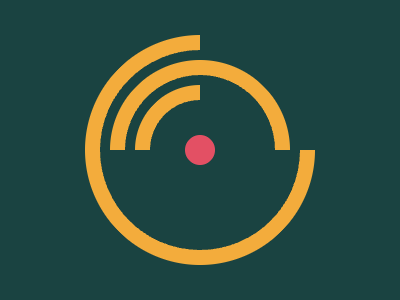
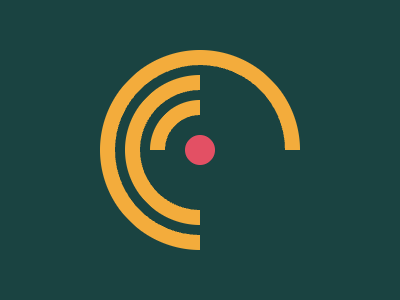
feat: add Preview component and normalize challenge rendering with standardized base HTML template

Changed region(s): [[0.21, 0.12, 0.81, 0.9]]

diff --git a/seed_images.js b/seed_images.js
@@ -7,18 +7,32 @@ const puppeteer = require('puppeteer');
   await p.setViewport({ width: 400, height: 300, deviceScaleFactor: 1 });
 
   const writeChallenge = async (file, html) => {
-    await p.setContent(html);
+    const fullHtml = `
+      <!DOCTYPE html>
+      <html>
+        <head>
+          <style>
+            * { margin: 0; padding: 0; box-sizing: border-box; }
+            html, body { width: 400px; height: 300px; overflow: hidden; background: #ffffff; }
+          </style>
+        </head>
+        <body>
+          ${html}
+        </body>
+      </html>
+    `;
+    await p.setContent(fullHtml);
     await new Promise(r => setTimeout(r, 100));
     const buf = await p.screenshot({ type: 'png' });
     fs.writeFileSync('public/challenges/' + file, buf);
     console.log('Generated ' + file);
   };
 
-  // 1. The Radial Maze (Medium)
-  await writeChallenge('challenge-1.png', '<style>body{background:#1A4341;margin:0;width:400px;height:300px}.r,.c{position:absolute;top:50%;left:50%;transform:translate(-50%,-50%)}.r{border:15px solid #F3AC3C;border-radius:50%;border-top-color:transparent}.r1{width:200px;height:200px;transform:translate(-50%,-50%) rotate(45deg)}.r2{width:150px;height:150px;transform:translate(-50%,-50%) rotate(135deg);border-right-color:transparent}.r3{width:100px;height:100px;transform:translate(-50%,-50%) rotate(225deg);border-bottom-color:transparent;border-left-color:transparent}.c{width:30px;height:30px;background:#E35064;border-radius:50%}</style><div class="r r1"></div><div class="r r2"></div><div class="r r3"></div><div class="c"></div>');
+  // 1. The Radial Maze (Medium) - FIXED FOR BORDER-BOX
+  await writeChallenge('challenge-1.png', '<style>body{background:#1A4341;margin:0;width:400px;height:300px}.r,.c{position:absolute;top:50%;left:50%;transform:translate(-50%,-50%)}.r{border:15px solid #F3AC3C;border-radius:50%}.r1{width:200px;height:200px;border-right-color:transparent;transform:translate(-50%,-50%) rotate(45deg)}.r2{width:150px;height:150px;border-top-color:transparent;border-right-color:transparent;transform:translate(-50%,-50%) rotate(45deg)}.r3{width:100px;height:100px;border-top-color:transparent;border-right-color:transparent;border-bottom-color:transparent;transform:translate(-50%,-50%) rotate(45deg)}.c{width:30px;height:30px;background:#E35064;border-radius:50%}</style><div class="r r1"></div><div class="r r2"></div><div class="r r3"></div><div class="c"></div>');
 
-  // 2. The Mechanical Eye (Hard)
-  await writeChallenge('challenge-2.png', '<style>body{background:#111;margin:0;width:400px;height:300px;display:flex;align-items:center;justify-content:center}.o{width:150px;height:150px;border:10px solid #F2BC1B;border-radius:50%;position:relative;display:flex;align-items:center;justify-content:center}.i{width:80px;height:80px;background:radial-gradient(#E35064,#F2BC1B);border-radius:50%;position:relative}.p{width:30px;height:30px;background:#111;border-radius:50%;position:absolute;top:25px;left:25px}.b{position:absolute;width:10px;height:10px;background:#F2BC1B;border-radius:50%}.b1{top:-20px;left:70px}.b2{bottom:-20px;left:70px}.b3{left:-20px;top:70px}.b4{right:-20px;top:70px}</style><div class="o"><div class="i"><div class="p"></div></div><div class="b b1"></div><div class="b b2"></div><div class="b b3"></div><div class="b b4"></div></div>');
+  // 2. The Mechanical Eye (Hard) - FIXED FOR BORDER-BOX (.o width/height changed to 170px)
+  await writeChallenge('challenge-2.png', '<style>body{background:#111;margin:0;width:400px;height:300px;display:flex;align-items:center;justify-content:center}.o{width:170px;height:170px;border:10px solid #F2BC1B;border-radius:50%;position:relative;display:flex;align-items:center;justify-content:center}.i{width:80px;height:80px;background:radial-gradient(#E35064,#F2BC1B);border-radius:50%;position:relative}.p{width:30px;height:30px;background:#111;border-radius:50%;position:absolute;top:25px;left:25px}.b{position:absolute;width:10px;height:10px;background:#F2BC1B;border-radius:50%}.b1{top:-20px;left:70px}.b2{bottom:-20px;left:70px}.b3{left:-20px;top:70px}.b4{right:-20px;top:70px}</style><div class="o"><div class="i"><div class="p"></div></div><div class="b b1"></div><div class="b b2"></div><div class="b b3"></div><div class="b b4"></div></div>');
 
   await browser.close();
   process.exit();

diff --git a/components/Preview.tsx b/components/Preview.tsx
@@ -19,7 +19,8 @@ export default function Preview({ code, id = 'preview-iframe' }: PreviewProps) {
 <meta charset="UTF-8">
 <meta name="viewport" content="width=device-width, initial-scale=1.0">
 <style>
-  html, body { width: 400px; height: 300px; overflow: hidden; background: #fff; margin: 0; padding: 0; }
+  * { margin: 0; padding: 0; box-sizing: border-box; }
+  html, body { width: 400px; height: 300px; overflow: hidden; background: #fff; }
 </style>
 </head>
 <body>
